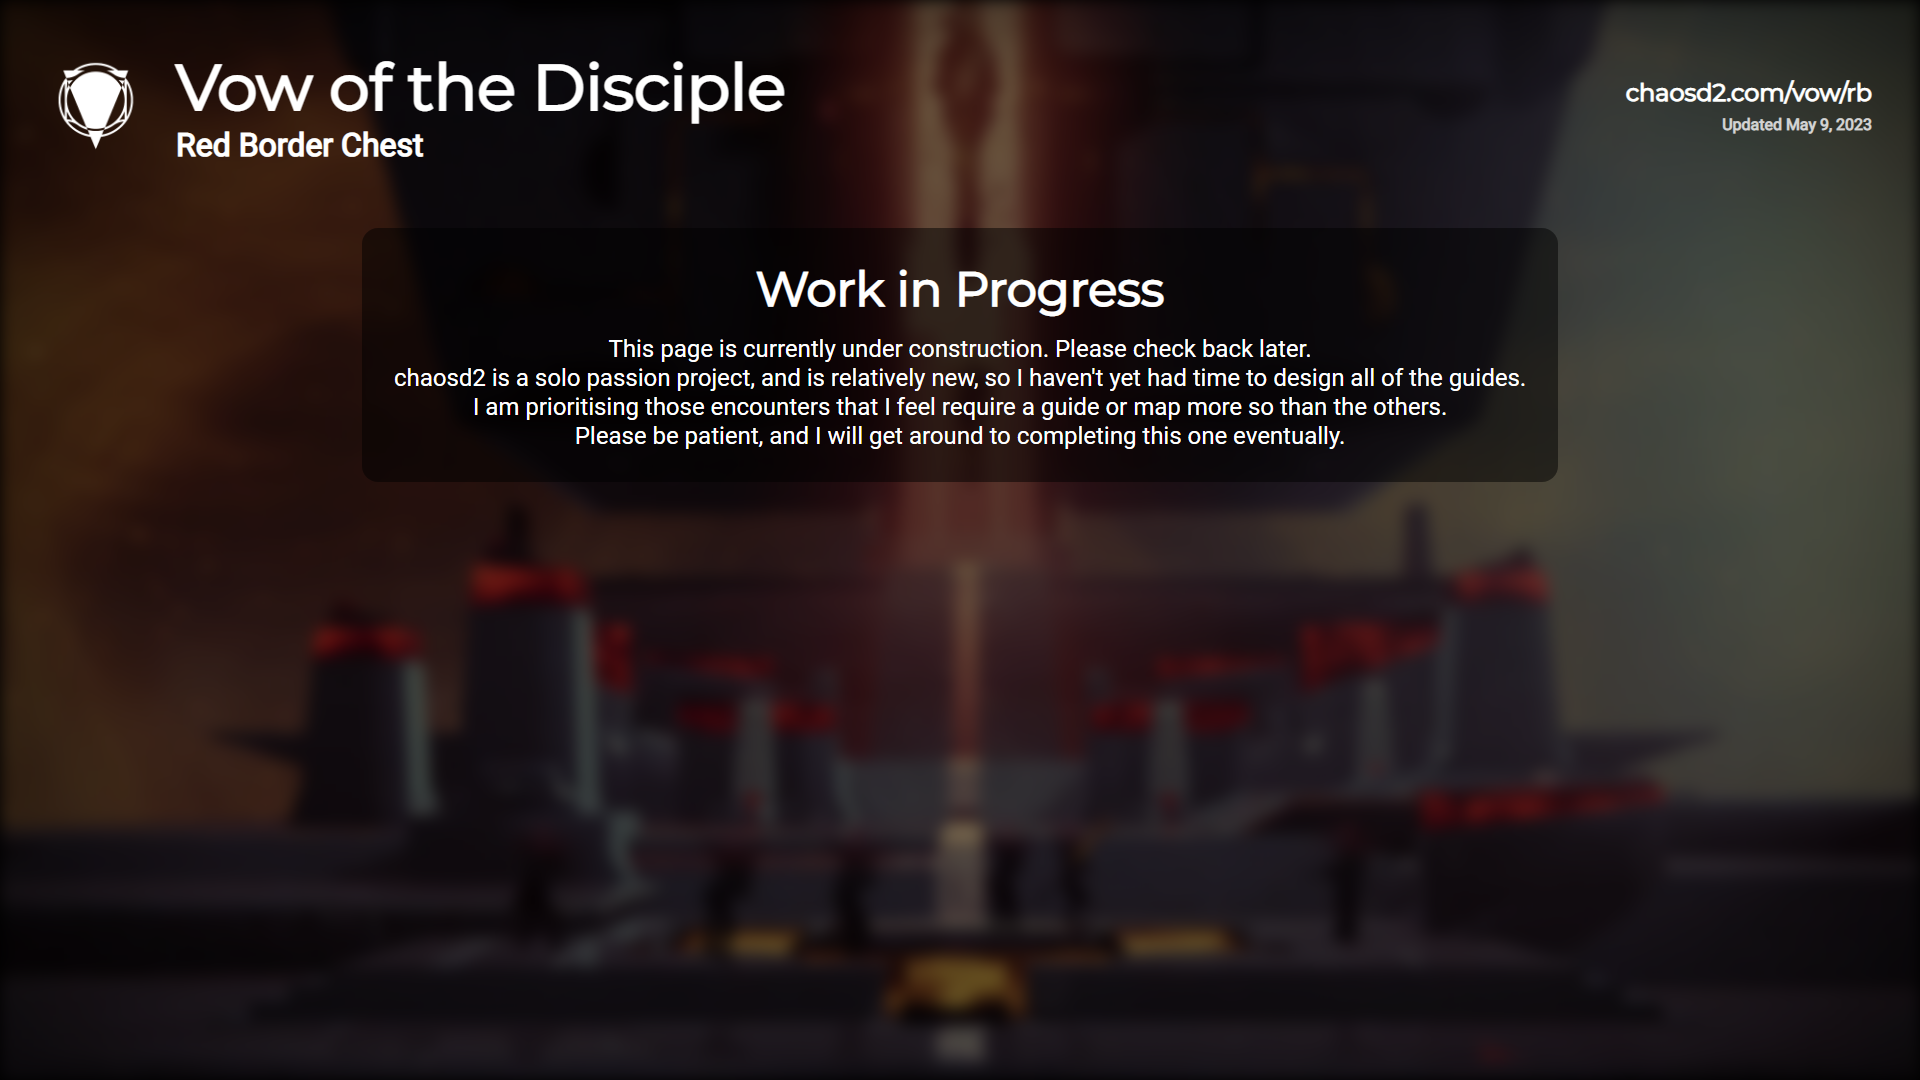
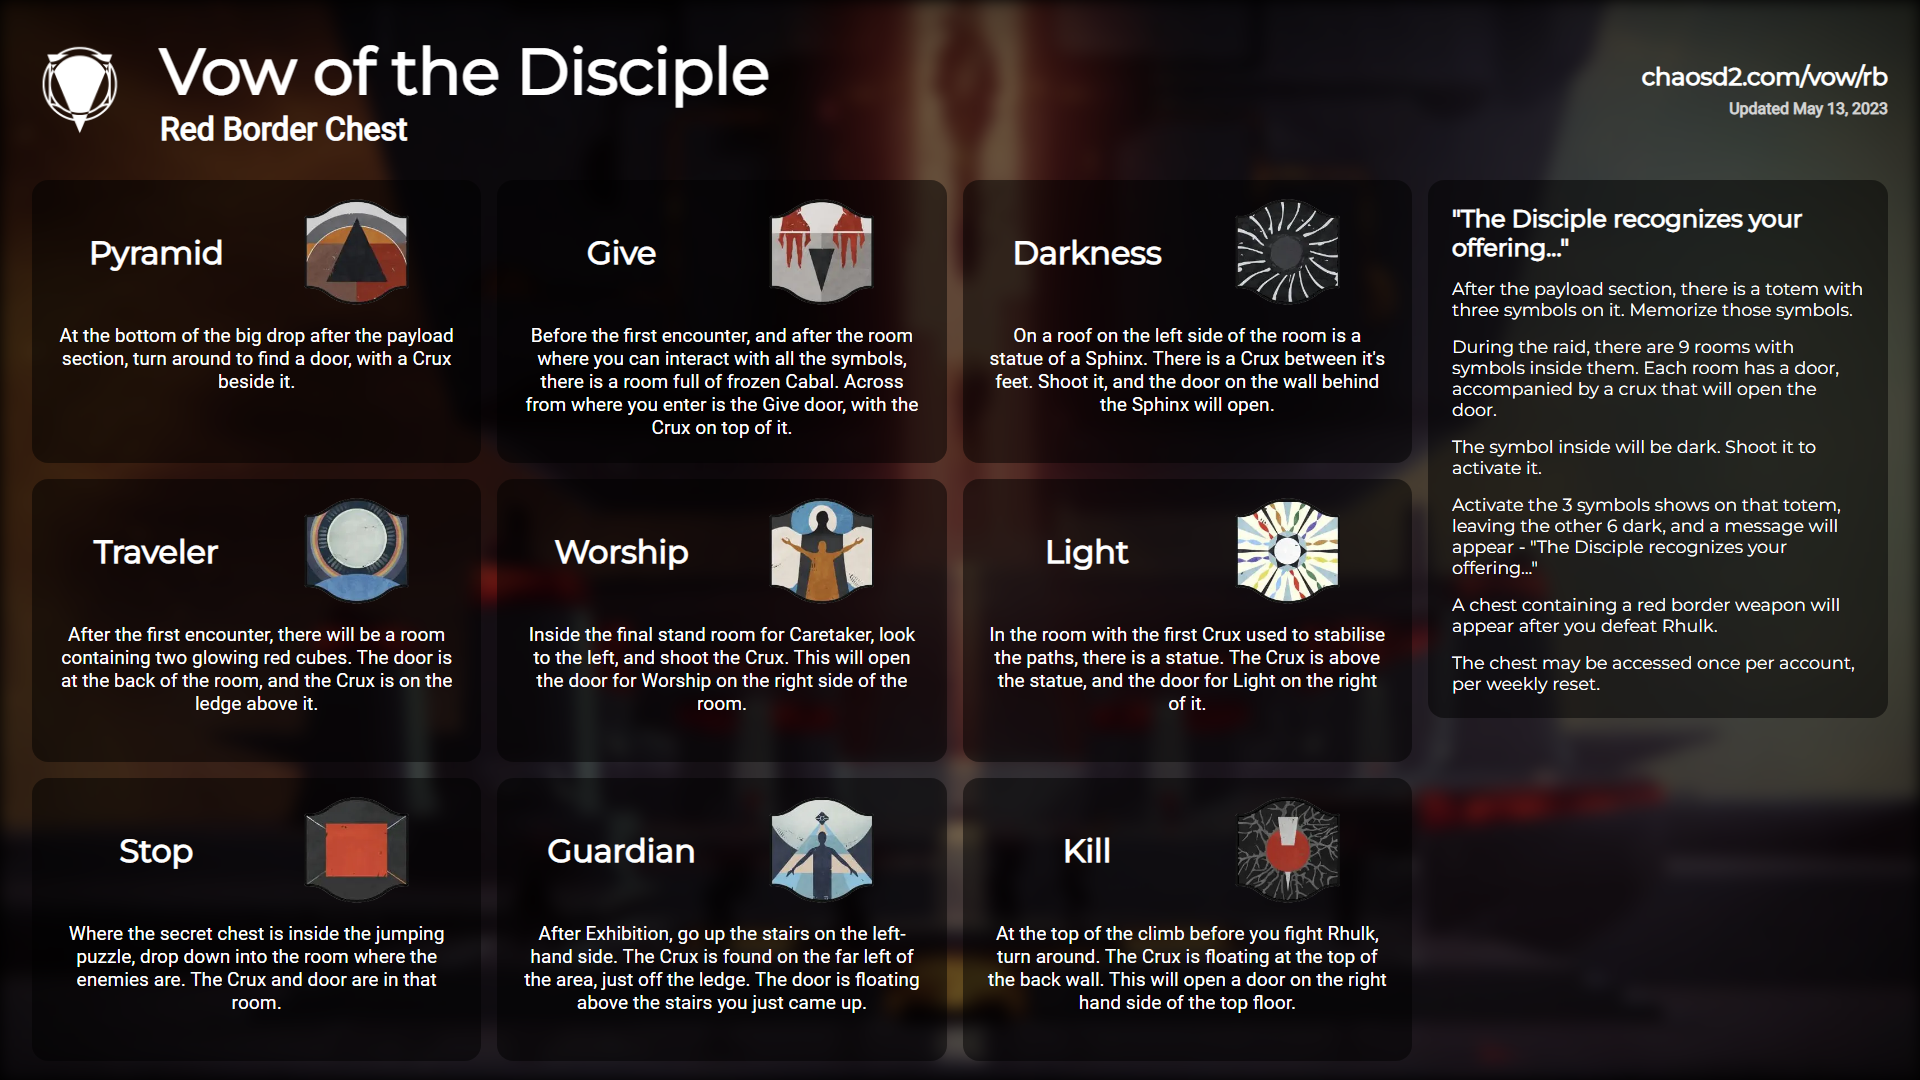
Added vow red border

diff --git a/src/app/image_sources/raids/vow_of_the_disciple/rb/page.js b/src/app/image_sources/raids/vow_of_the_disciple/rb/page.js
@@ -1,11 +1,18 @@
-import styles from "@image_components/LootTable.module.css";
-import ImageHeader from "@image_components/ImageHeader";
-import Image from "next/image";
+import custom from "./styles.module.css";
 import Background from "@backgrounds/vow.jpg";
+import Icon1 from "@images/icons/vow_of_the_disciple/pyramid.png";
+import Icon2 from "@images/icons/vow_of_the_disciple/give.png";
+import Icon3 from "@images/icons/vow_of_the_disciple/darkness.png";
+import Icon4 from "@images/icons/vow_of_the_disciple/traveller.png";
+import Icon5 from "@images/icons/vow_of_the_disciple/worship.png";
+import Icon6 from "@images/icons/vow_of_the_disciple/light.png";
+import Icon7 from "@images/icons/vow_of_the_disciple/stop.png";
+import Icon8 from "@images/icons/vow_of_the_disciple/guardian.png";
+import Icon9 from "@images/icons/vow_of_the_disciple/kill.png";
+import Image from "next/image";
 import {BungieIcons} from "@components/BungieIcons";
-import ImageUnderConstruction from "@image_components/ImageUnderConstruction";
-
-/* TODO: This is a placeholder page. */
+import ImageHeader from "@image_components/ImageHeader";
+import styles from "@image_components/LootTable.module.css";
 
 export const metadata = {
     other: {
@@ -16,14 +23,69 @@ export const metadata = {
 
 export default function VowRedBorder() {
     return (
-        <body className={styles.main}>
-            <Image src={Background} alt={""} className={styles.background}/>
-            <div className={styles.wrapper}>
-                <ImageHeader title={"Vow of the Disciple"} subtitle={"Red Border Chest"} icon={BungieIcons.raids.vow_of_the_disciple} href={"chaosd2.com/vow/rb"}/>
-                <div className={styles.content}>
-                    <ImageUnderConstruction/>
+        <body className={custom.body}>
+        <Image src={Background} alt={""} className={styles.background}/>
+        <main className={custom.main}>
+            <ImageHeader title={"Vow of the Disciple"} subtitle={"Red Border Chest"} icon={BungieIcons.raids.vow_of_the_disciple} href={"chaosd2.com/vow/rb"}/>
+            <div className={custom.content}>
+                <div className={custom.grid}>
+                    <RBLocation location={"Pyramid"} image={Icon1} >
+                        <p>At the bottom of the big drop after the payload section, turn around to find a door, with a Crux beside it.</p>
+                    </RBLocation>
+                    <RBLocation location={"Give"} image={Icon2} >
+                        <p>Before the first encounter, and after the room where you can interact with all the symbols, there is a room full of frozen Cabal. Across from where you enter is the Give door, with the Crux on top of it.</p>
+                    </RBLocation>
+                    <RBLocation location={"Darkness"} image={Icon3} >
+                        <p>On a roof on the left side of the room is a statue of a Sphinx. There is a Crux between it's feet. Shoot it, and the door on the wall behind the Sphinx will open.</p>
+                    </RBLocation>
+                    <RBLocation location={"Traveler"} image={Icon4} >
+                        <p>After the first encounter, there will be a room containing two glowing red cubes. The door is at the back of the room, and the Crux is on the ledge above it.</p>
+                    </RBLocation>
+                    <RBLocation location={"Worship"} image={Icon5} >
+                        <p>Inside the final stand room for Caretaker, look to the left, and shoot the Crux. This will open the door for Worship on the right side of the room.</p>
+                    </RBLocation>
+                    <RBLocation location={"Light"} image={Icon6} >
+                        <p>In the room with the first Crux used to stabilise the paths, there is a statue. The Crux is above the statue, and the door for Light on the right of it.</p>
+                    </RBLocation>
+                    <RBLocation location={"Stop"} image={Icon7} >
+                        <p>Where the secret chest is inside the jumping puzzle, drop down into the room where the enemies are. The Crux and door are in that room.</p>
+                    </RBLocation>
+                    <RBLocation location={"Guardian"} image={Icon8} >
+                        <p>After Exhibition, go up the stairs on the left-hand side. The Crux is found on the far left of the area, just off the ledge. The door is floating above the stairs you just came up.</p>
+                    </RBLocation>
+                    <RBLocation location={"Kill"} image={Icon9} >
+                        <p>At the top of the climb before you fight Rhulk, turn around. The Crux is floating at the top of the back wall. This will open a door on the right hand side of the top floor.</p>
+                    </RBLocation>
+                </div>
+                <div className={custom.text_wrapper}>
+                    <div className={custom.side_text}>
+                        <h2>"The Disciple recognizes your offering..."</h2>
+                        <p>After the payload section, there is a totem with three symbols on it. Memorize those symbols.</p>
+                        <p>During the raid, there are 9 rooms with symbols inside them. Each room has a door, accompanied by a crux that will open the door.</p>
+                        <p>The symbol inside will be dark. Shoot it to activate it.</p>
+                        <p>Activate the 3 symbols shows on that totem, leaving the other 6 dark, and a message will appear - "The Disciple recognizes your offering..."</p>
+                        <p>A chest containing a red border weapon will appear after you defeat Rhulk.</p>
+                        <p>The chest may be accessed once per account, per weekly reset.</p>
+                    </div>
                 </div>
             </div>
+        </main>
         </body>
-    );
+    )
+}
+
+function RBLocation({ location, image, children }) {
+    return (
+        <div className={custom.grid_element}>
+            <div className={custom.location}>
+                <h3 className={custom.name}>{location}</h3>
+                <div className={custom.image_wrapper}>
+                    <Image src={image} alt={""} className={custom.image}/>
+                </div>
+            </div>
+            <div className={custom.text}>
+                {children}
+            </div>
+        </div>
+    )
 }

diff --git a/src/app/image_sources/raids/vow_of_the_disciple/rb/styles.module.css b/src/app/image_sources/raids/vow_of_the_disciple/rb/styles.module.css
@@ -1,0 +1,101 @@
+.body {
+    width: 100%;
+    height: 100%;
+    overflow: hidden;
+}
+
+.background {
+    position: absolute;
+    width: 100%;
+    height: 100%;
+    top: 0;
+    left: 0;
+    filter: blur(8px);
+    z-index: -1;
+}
+
+.main {
+    width: 100%;
+    height: 100%;
+    padding: 2rem;
+}
+
+.content {
+    width: 100%;
+    height: 100%;
+    display: flex;
+    gap: 1rem;
+}
+
+.text_wrapper {
+    flex: 1;
+}
+
+.grid {
+    flex: 3;
+    display: grid;
+    grid-template-columns: repeat(3, 1fr);
+    grid-template-rows: repeat(3, 1fr);
+    grid-gap: 1rem;
+}
+
+.image {
+    width: 7rem;
+    height: 7rem;
+}
+
+.grid_element {
+    padding: 1rem 1.5rem 1.5rem 1.5rem;
+    background: rgba(0, 0, 0, 0.5);
+    border-radius: 1rem;
+    display: flex;
+    flex-direction: column;
+    gap: 1rem;
+}
+
+.location {
+    width: 100%;
+    display: flex;
+    align-items: center;
+    font-size: 1.2rem;
+}
+
+.location > * {
+    flex: 1;
+}
+
+.name {
+    font-size: 2rem;
+    text-align: center;
+}
+
+.image_wrapper {
+    display: flex;
+    justify-content: center;
+    align-items: center;
+}
+
+.text {
+    font-size: 1.2rem;
+    font-family: Montserrat, sans-serif;
+    text-align: center;
+}
+
+.side_text {
+    background: rgba(0, 0, 0, 0.5);
+    padding: 1.5rem;
+    border-radius: 1rem;
+    display: flex;
+    flex-direction: column;
+    gap: 1rem;
+}
+
+.side_text h2 {
+    font-size: 1.5rem;
+    font-weight: bold;
+}
+
+.side_text p {
+    font-size: 1.1rem;
+    font-family: Montserrat, sans-serif;
+}
